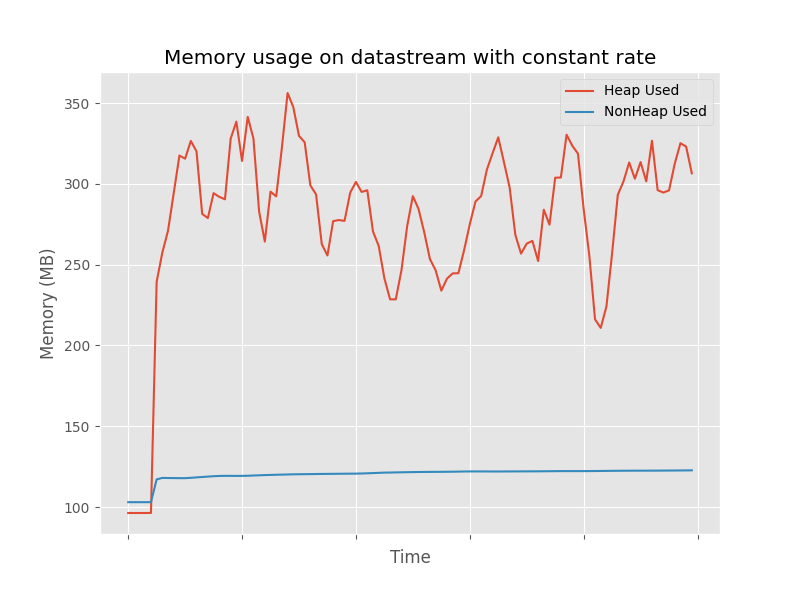
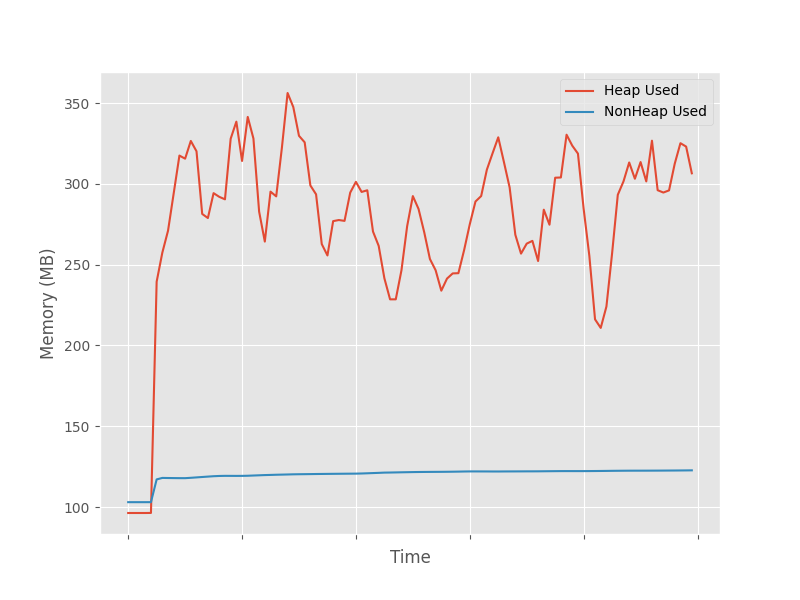
rerun visualization

Changed region(s): [[0.1875, 0.09, 0.8125, 0.12]]

diff --git a/src/visualizers/visualizer.py b/src/visualizers/visualizer.py
@@ -245,7 +245,7 @@ def visualize_throughput(dyn_vert: m_parser.DFConsolidator,
     ax = plt.subplot(111)
     ax = draw_lineplot(throughput_df,
                        np.arange(0, throughput_df.shape[0]),
-                       f"Data stream with {test_type} rate",
+                       "",
                        ylabel="Throughput (records/s)",
                        xlabel="Time (s)",
                        ax=ax)
@@ -287,7 +287,7 @@ def visualize_jvm_stats(dyn_task: m_parser.DFConsolidator,
     diff_col = diff_df.columns[0]
     ax = draw_barchart(diff_df,
                        diff_x,
-                       f"Difference in memory usage",
+                       "",
                        ylabel="Memory difference (MB)",
                        xlabel="Time",
                        ax=ax,
@@ -313,7 +313,7 @@ def visualize_jvm_stats(dyn_task: m_parser.DFConsolidator,
     ax = plt.subplot(111)
     ax = draw_lineplot(diff_df,
                        np.arange(0, diff_df.shape[0]),
-                       title=f"Difference in memory usage",
+                       "",
                        ylabel="Memory difference (MB)",
                        xlabel="Time",
                        ax=ax,
@@ -328,7 +328,7 @@ def visualize_jvm_stats(dyn_task: m_parser.DFConsolidator,
     ax = plt.subplot(111)
     ax = draw_lineplot(merged_df,
                        np.arange(0, merged_df.shape[0]),
-                       f"Memory usage on datastream with {test_type} rate",
+                       "",
                        ylabel="Memory (MB)",
                        xlabel="Time",
                        ax=ax,
@@ -341,7 +341,7 @@ def visualize_jvm_stats(dyn_task: m_parser.DFConsolidator,
     ax = plt.subplot(111)
     ax = draw_lineplot(dyna_used_avg_df,
                        np.arange(0, dyna_used_avg_df.shape[0]),
-                       f"Memory usage on datastream with {test_type} rate",
+                       "",
                        ylabel="Memory (MB)",
                        xlabel="Time",
                        ax=ax,
@@ -354,7 +354,7 @@ def visualize_jvm_stats(dyn_task: m_parser.DFConsolidator,
     ax = plt.subplot(111)
     ax = draw_lineplot(tumb_used_avg_df,
                        np.arange(0, tumb_used_avg_df.shape[0]),
-                       f"Memory usage on datastream with {test_type} rate",
+                       "",
                        ylabel="Memory (MB)",
                        xlabel="Time",
                        ax=ax,
@@ -372,7 +372,7 @@ def visualize_jvm_stats(dyn_task: m_parser.DFConsolidator,
     ax = plt.subplot(111)
     ax = draw_lineplot(cpu_df,
                        np.arange(0, cpu_df.shape[0]),
-                       f"CPU usage on datastream with {test_type} rate",
+                       "",
                        ylabel="CPU (percentage)",
                        xlabel="Time",
                        ax=ax)
